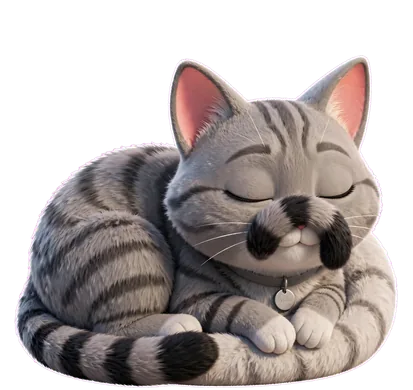
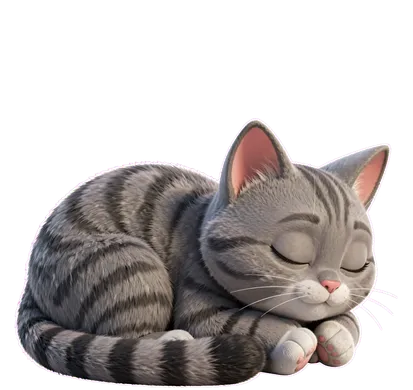
README and site lead with why PixyPup exists
Open both with the real story: my wife misses Pakkun at the office, so
PixyPup puts him on her screen. Name the hackathon entry once (Indie
Developer track, Build for Your World). Companionship features come first;
the failing-test sniff is now the coding bonus, last in the list and the
demo controls. Site Mochi/Kuma sleep sprites now use the one-tail redraw.

diff --git a/docs/index.html b/docs/index.html
@@ -4,9 +4,9 @@
 <meta charset="utf-8">
 <meta name="viewport" content="width=device-width, initial-scale=1">
 <title>PixyPup · your pet, on your Mac</title>
-<meta name="description" content="One photo of your dog or cat becomes a 3D companion on your Mac with PixyPup. It walks, does tricks, sniffs your failing tests. Built with Meta SAM 3.1, Muse Image, Muse Spark and Voice Transcribe.">
+<meta name="description" content="PixyPup turns one photo of your dog or cat into a 3D companion that keeps you company on your Mac at work. Built for a wife who misses her golden retriever at the office, with Meta SAM 3.1, Muse Image, Muse Wonder, Muse Spark and Voice Transcribe.">
 <meta property="og:title" content="PixyPup · your pet, on your Mac">
-<meta property="og:description" content="One photo in. One very good pup out. He walks your desktop, does tricks, and sniffs out your failing tests.">
+<meta property="og:description" content="My wife misses our dog Pakkun at the office, so I put him on her screen. One photo in, one very good pup out, keeping you company all workday.">
 <meta property="og:image" content="https://bbekshr.github.io/pixypup/og.png">
 <meta property="og:type" content="website">
 <meta name="twitter:card" content="summary_large_image">
@@ -140,6 +140,8 @@ nav .gh:hover { color: var(--ink); background: var(--panel-2); }
 @keyframes rise { to { transform: none; } }
 .hero-row { display: flex; align-items: flex-end; justify-content: space-between; gap: 32px; flex-wrap: wrap; margin-top: 32px; }
 .hero-row .lede { margin: 0; max-width: 40ch; }
+.lede .sig { display: block; margin-top: 10px; font-size: 15px; color: var(--ink-3); }
+.lede .sig::before { content: "— "; }
 .js .hero .tag, .js .hero-row > * { opacity: 0; transform: translateY(18px); animation: up .7s var(--land) forwards; }
 .js .hero .tag { animation-delay: 0s; }
 .js .hero-row > :first-child { animation-delay: .42s; }
@@ -496,13 +498,13 @@ footer a { color: var(--ink-2); }
 
 <header class="hero" id="top">
   <div class="wrap">
-    <span class="tag"><i class="ph ph-paw-print"></i>Meta Global AI Developer Hackathon 2026</span>
+    <span class="tag"><i class="ph ph-paw-print"></i>Meta Global AI Developer Hackathon 2026 · Indie Developer · Build for Your World</span>
     <h1 class="kin" aria-label="Your pet, on your Mac.">
       <span class="ln" aria-hidden="true"><span class="w" style="--i:0">Your</span> <span class="w" style="--i:1">pet,</span></span>
       <span class="ln mute" aria-hidden="true"><span class="w" style="--i:2">on</span> <span class="w" style="--i:3">your</span> <span class="w" style="--i:4">Mac.</span></span>
     </h1>
     <div class="hero-row">
-      <p class="lede">One photo of your dog or cat becomes a 3D companion who walks your desktop and sniffs out failing tests.</p>
+      <p class="lede">My wife goes to the office every day and misses our golden retriever, Pakkun. She can't take him with her, so I built PixyPup: one photo, and Pakkun lives on her screen. <span class="sig">Bek</span></p>
       <div class="cta">
         <a class="btn btn-primary" href="https://github.com/BbekShr/pixypup/releases/latest/download/PixyPup-0.1.0-arm64.dmg"><i class="ph ph-apple-logo"></i>Download for Mac</a>
         <a class="btn btn-ghost" href="https://github.com/BbekShr/pixypup"><i class="ph ph-star"></i>Star on GitHub</a>
@@ -538,10 +540,10 @@ footer a { color: var(--ink-2); }
         </div>
         <span class="sep" aria-hidden="true"></span>
         <div role="group" aria-label="Try a reaction" style="display:contents">
-          <button class="chip" data-act="fail"><i class="ph ph-flask"></i>Break a test</button>
-          <button class="chip" data-act="fix"><i class="ph ph-check-circle"></i>Fix it</button>
           <button class="chip" data-act="badge"><i class="ph ph-chat-circle-dots"></i>New message</button>
           <button class="chip" data-act="trick"><i class="ph ph-tennis-ball"></i>Do a trick</button>
+          <button class="chip" data-act="fail"><i class="ph ph-flask"></i>Break a test</button>
+          <button class="chip" data-act="fix"><i class="ph ph-check-circle"></i>Fix it</button>
         </div>
       </div>
     </div>
@@ -617,18 +619,10 @@ footer a { color: var(--ink-2); }
   <div class="wrap notices">
     <div class="stick">
       <h2 class="rv">A pet who gets your workday.</h2>
-      <p class="lede rv" style="--d:.06s">Turn on "Notice my screen" and Pakkun reacts to what is actually happening. Off by default, of course.</p>
+      <p class="lede rv" style="--d:.06s">Your own pet on your desk, all day at work. Turn on "Notice my screen" and he reacts to what is actually happening. Off by default, of course.</p>
       <p class="note rv" style="--d:.12s"><i class="ph ph-eye"></i><span>He reads only the front Terminal's text and the list of open windows. Secrets are blanked on your Mac first, and nothing is saved. "Show what Pakkun sees" opens a card with his every decision.</span></p>
     </div>
     <div class="rx-list">
-      <article class="panel rx rv">
-        <div class="vis">
-          <div class="mini-term"><span>~/app $ npm test</span>FAIL src/math.test.ts &gt; adds numbers</div>
-          <img class="petimg" src="img/pakkun/bark.webp" alt="" style="right:14%" loading="lazy">
-          <span class="mini-bub" style="right:9%; bottom:156px">Found a bug!</span>
-        </div>
-        <div class="txt"><h3>Sniffs failing tests</h3><p>A red line in your Terminal? He runs over, sniffs, and barks a line written by <b>Muse Spark 1.3</b>. Click him for a hint. Make it green and he rolls over and cheers.</p></div>
-      </article>
       <article class="panel rx rv">
         <div class="vis">
           <div class="app-ico on" style="left:28px; top:34px; right:auto"><i class="ph ph-chat-teardrop-dots"></i><b>3</b></div>
@@ -643,6 +637,14 @@ footer a { color: var(--ink-2); }
           <img class="petimg" src="img/pakkun/side_2.webp" alt="" style="right:-60px; height:130px" loading="lazy">
         </div>
         <div class="txt"><h3>Hides on calls</h3><p>Zoom or Meet window open? He tiptoes to the edge of the screen and waits until your call ends. A very professional pup.</p></div>
+      </article>
+      <article class="panel rx rv">
+        <div class="vis">
+          <div class="mini-term"><span>~/app $ npm test</span>FAIL src/math.test.ts &gt; adds numbers</div>
+          <img class="petimg" src="img/pakkun/bark.webp" alt="" style="right:14%" loading="lazy">
+          <span class="mini-bub" style="right:9%; bottom:156px">Found a bug!</span>
+        </div>
+        <div class="txt"><h3>Bonus for coders: sniffs failing tests</h3><p>For when I'm coding. A red line in your Terminal? He runs over, sniffs, and barks a line written by <b>Muse Spark 1.3</b>. Click him for a hint. Make it green and he rolls over: "You fixed it!"</p></div>
       </article>
     </div>
   </div>
@@ -777,7 +779,7 @@ footer a { color: var(--ink-2); }
 <footer>
   <div class="zzz" aria-hidden="true"><span>z</span><span>z</span><span>z</span></div>
   <img class="sleepy" src="img/pakkun/sleep.webp" alt="Pakkun napping" loading="lazy">
-  <p>Made for the Meta Global AI Developer Hackathon 2026 · <a href="https://github.com/BbekShr/pixypup">github.com/BbekShr/pixypup</a></p>
+  <p>Made for my wife, who misses Pakkun at the office · <a href="https://github.com/BbekShr/pixypup">github.com/BbekShr/pixypup</a></p>
   <p>Mochi and Kuma were made by PixyPup from CC BY-SA 4.0 Wikimedia photos. <a href="https://github.com/BbekShr/pixypup/blob/main/assets/pets/CREDITS.md">Photo credits</a></p>
 </footer>
 

diff --git a/README.md b/README.md
@@ -6,7 +6,7 @@
 
 ### Your pet, living on your Mac. Meet Pakkun! 🐶
 
-**One photo of your dog or cat becomes a 3D companion who trots along your desktop,<br>does tricks when you click, and sniffs out your failing tests.**
+**One photo of your dog or cat becomes a 3D companion who keeps you company<br>on your Mac all workday: walking, napping, and doing tricks when you click.**
 
 [![Meta Global AI Developer Hackathon 2026](https://img.shields.io/badge/Meta_Global_AI_Hackathon-2026-F4A6A0?style=for-the-badge)](https://bbekshr.github.io/pixypup/)
 [![macOS](https://img.shields.io/badge/macOS-Apple_Silicon-3B2F2A?style=for-the-badge&logo=apple)](https://github.com/BbekShr/pixypup/releases/latest/download/PixyPup-0.1.0-arm64.dmg)
@@ -18,13 +18,19 @@
 
 <sub>☝ All fourteen poses (including the 8-frame walk), drawn by Meta's models from <b>one</b> photo. No 3D artist was harmed.</sub>
 
-**Try it in 30 seconds:** open the [live site](https://bbekshr.github.io/pixypup/), pick Pakkun, Mochi or Kuma under the desk demo, then break a test and watch them sniff it out. No download, no key.
+**Try it in 30 seconds:** open the [live site](https://bbekshr.github.io/pixypup/), pick Pakkun, Mochi or Kuma under the desk demo, then send them a message or ask for a trick. No download, no key.
 
 </div>
 
 ---
 
-## 💕 What is this?
+## 💕 Why I built it
+
+My wife goes to the office every day and misses our golden retriever, Pakkun. She obviously can't take him with her. So I built PixyPup: one photo of Pakkun, and now he lives on her screen at work.
+
+PixyPup is my entry in the **Meta Global AI Developer Hackathon 2026**, Indie Developer track, for the *Build for Your World* theme.
+
+## 🐶 What is this?
 
 PixyPup puts a tiny, very good pup on your Mac. Meet **Pakkun**: he lives along the bottom of your screen. He walks on a transparent, click-through layer, so he never gets in the way of your work. Pet him and he wiggles. Click him and he sits, barks, and rolls over. Leave him alone and he yawns, curls up, and naps.
 
@@ -39,15 +45,15 @@ Then the magic part: **give him a photo of _your_ pet**, and about a minute and 
 | | |
 |---|---|
 | 📸 **Photo → pet in about 90 seconds** | Drop a photo, type a name. **SAM 3.1** cuts your pet out, **Muse Image** draws a matching set of 3D poses, and you watch each one pop in. |
-| 🧪 **Sniffs your failing tests** | A red line in your Terminal? He runs over, sniffs, and barks a line written by **Muse Spark 1.3**. Click him for a hint about *why* it failed. Fix it and he rolls over and cheers. |
 | 💬 **Perks up at messages** | A new Dock badge from Slack, Mail, Messages or any app, and his ears go up. |
 | 🙈 **Hides on calls** | Zoom or Meet open? He tiptoes to the screen edge until your call ends. |
-| 🎙 **Voice tricks** | Hold <kbd>⌥</kbd> <kbd>Space</kbd> and say *"Pakkun, sit"*, *"roll over"*, *"go to bed"*, *"come here"* or *"bark"*. Powered by **Meta Voice Transcribe**. |
 | 🫂 **Talk to Pakkun** | A desk buddy for rough days. Right-click him, choose *Talk to Pakkun…*, and tell him how your day is going. He answers in woofs and acts it out beside the chat. Nothing leaves your Mac until you press Send. |
+| 🎙 **Voice tricks** | Hold <kbd>⌥</kbd> <kbd>Space</kbd> and say *"Pakkun, sit"*, *"roll over"*, *"go to bed"*, *"come here"* or *"bark"*. Powered by **Meta Voice Transcribe**. |
 | 🤲 **Little moments** | He turns to look at you, wiggles with hearts when you pet him, blinks, yawns before naps and stretches when he wakes. Every pet trots on a drawn 8-frame walk, with feet that never slide. |
 | 🐾 **Meet the pack** | Pakkun comes with two friends: **Mochi** the cat and **Kuma** the red Shiba. Open **Pet library** in the right-click or menu bar menu to add one; they stay after a restart. |
 | 🌪 **PixyPup Overload!** | One menu item drops every pet you've got, up to 24, across your screen for 25 seconds of pure chaos. |
 | 😴 **Calm and in control** | Snooze, size, energy, launch at login, hide from screen shares. He never steals a click or your focus. |
+| 🧪 **Bonus, for when I'm coding** | A red line in your Terminal? He runs over, sniffs, and barks a line written by **Muse Spark 1.3**. Click him for a hint about *why* it failed. Fix it and he rolls over: *"You fixed it!"* |
 
 ## 🐾 Meet the pack
 
@@ -60,7 +66,7 @@ Mochi and Kuma were made by PixyPup's own pipeline from CC BY-SA 4.0 Wikimedia p
 
 <div align="center">
 <img src="docs/sniff.png" alt="Pakkun next to a Terminal with a failing test highlighted, saying Found a bug!" width="80%">
-<br><sub>🐶 <i>"Found a bug!"</i></sub>
+<br><sub>🐶 The coder's bonus: <i>"Found a bug!"</i></sub>
 </div>
 
 ## 🦙 Five Meta models, one good boy
@@ -153,7 +159,7 @@ A desk buddy for rough days. Right-click him (or the menu-bar icon) and choose "
 
 <img src="assets/pets/Pakkun/sleep.png" width="110" alt="Pakkun napping">
 
-**Made with 🐾 for the Meta Global AI Developer Hackathon 2026.**<br>
+**Made with 🐾 for my wife, who misses Pakkun at the office.**<br>
 <sub>All code written from Oct 31 2026. Electron + TypeScript, with a tiny Swift helper.</sub>
 
 </div>
